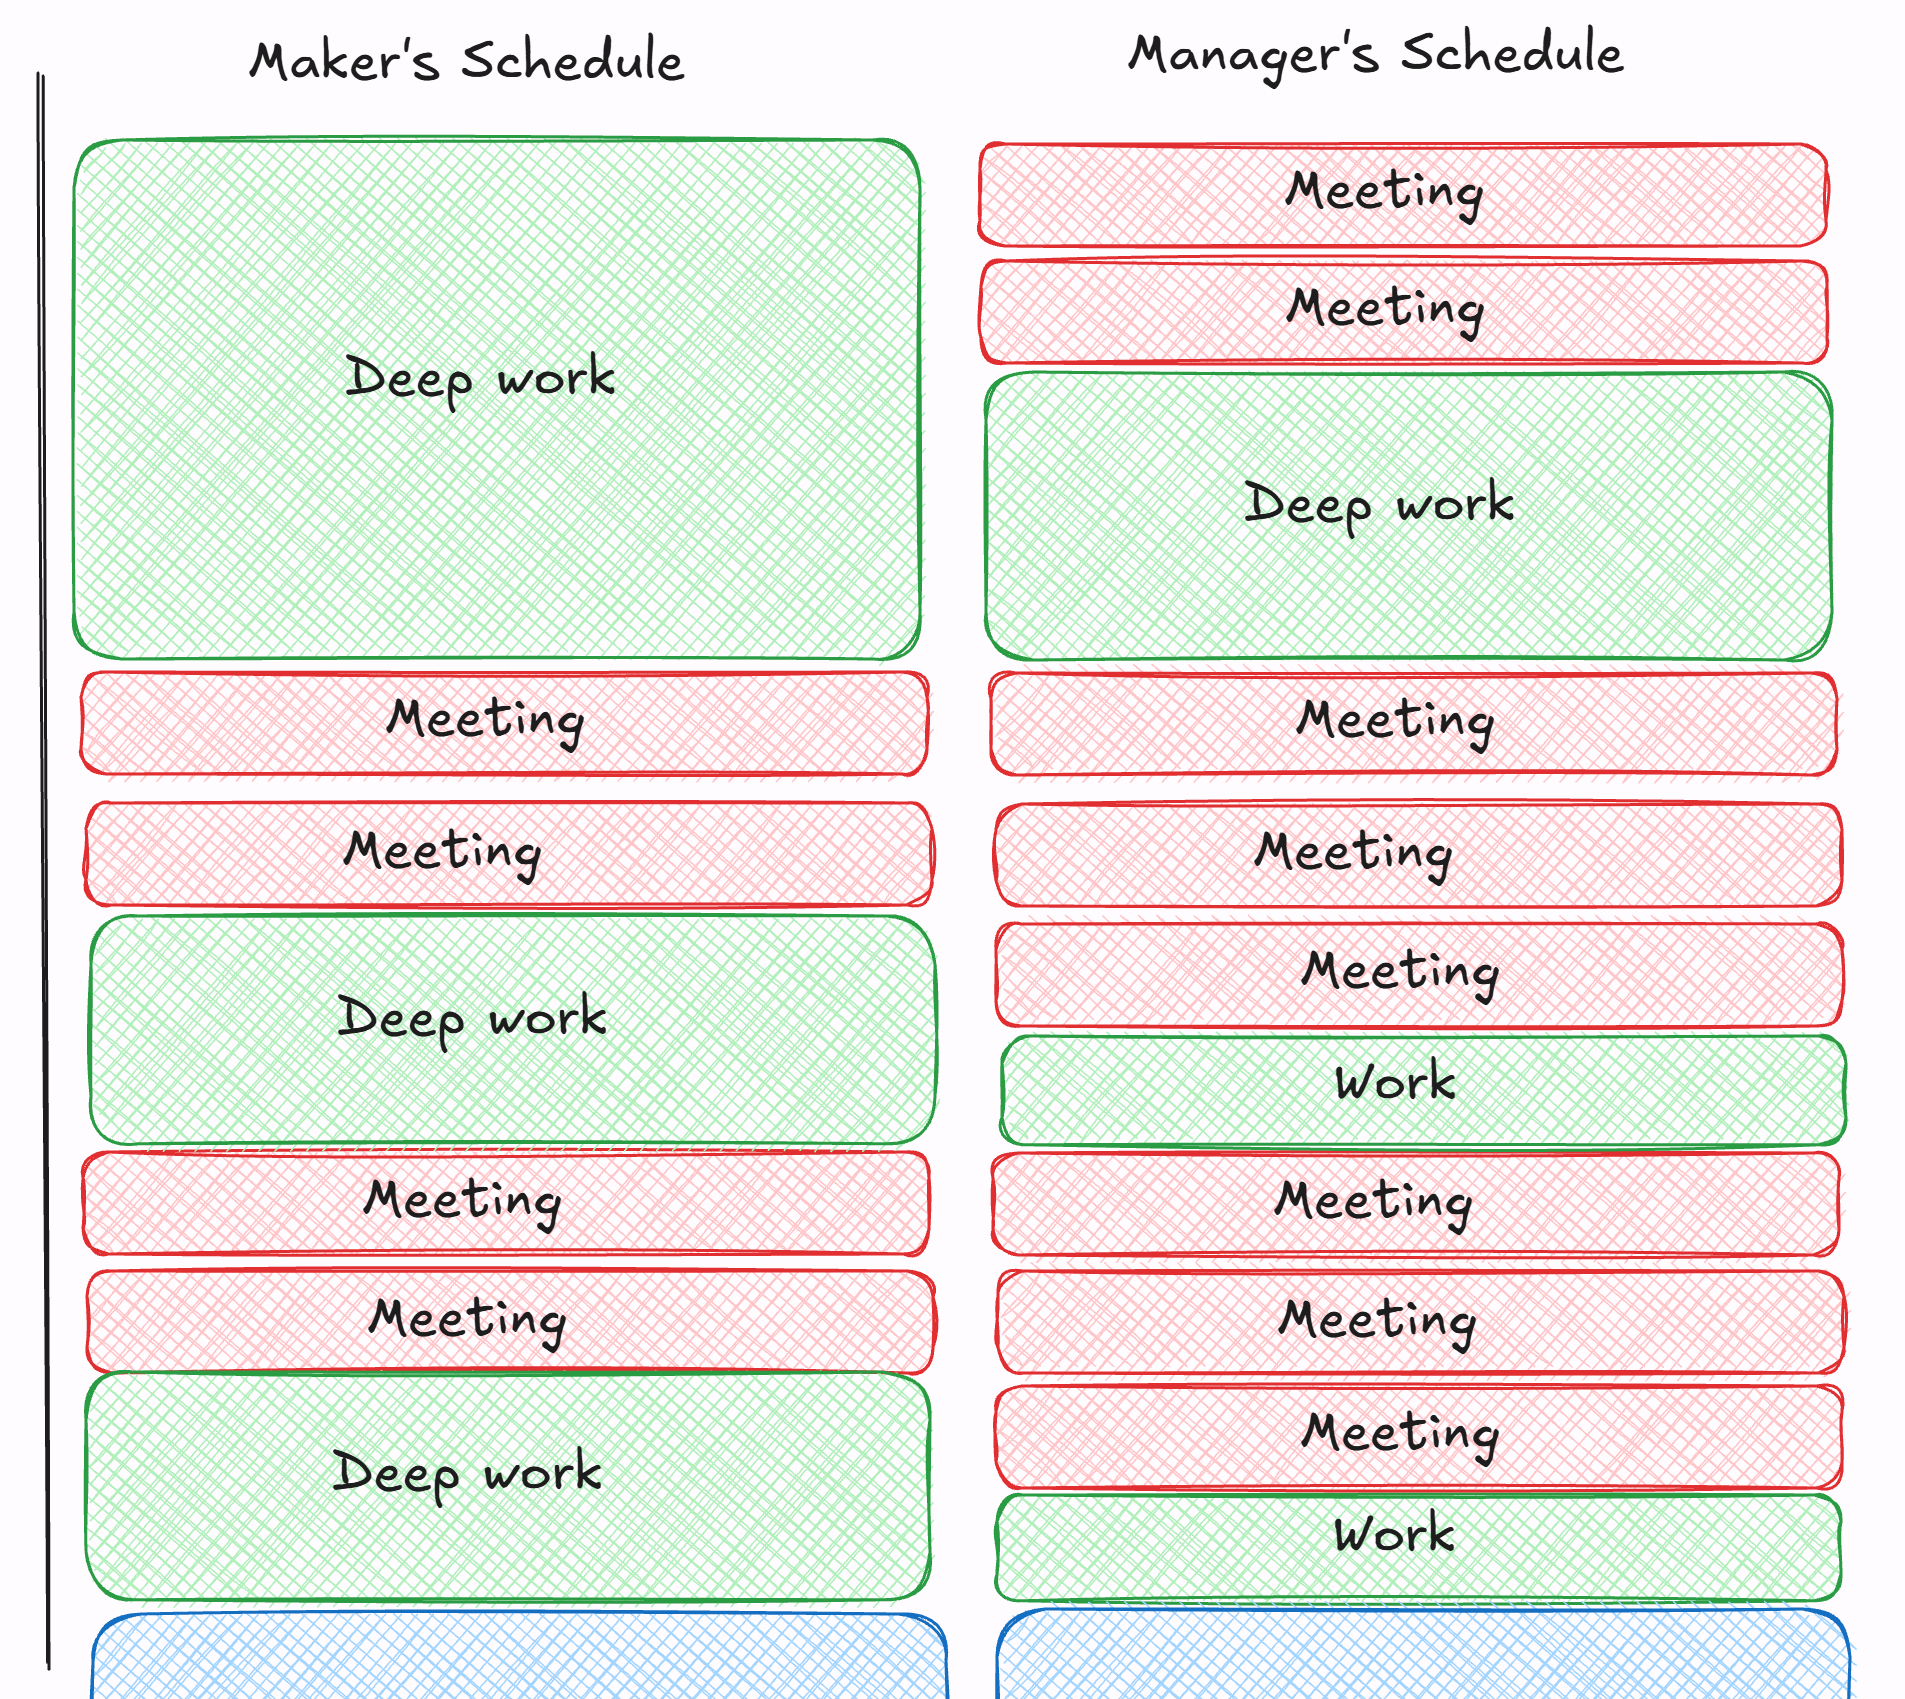
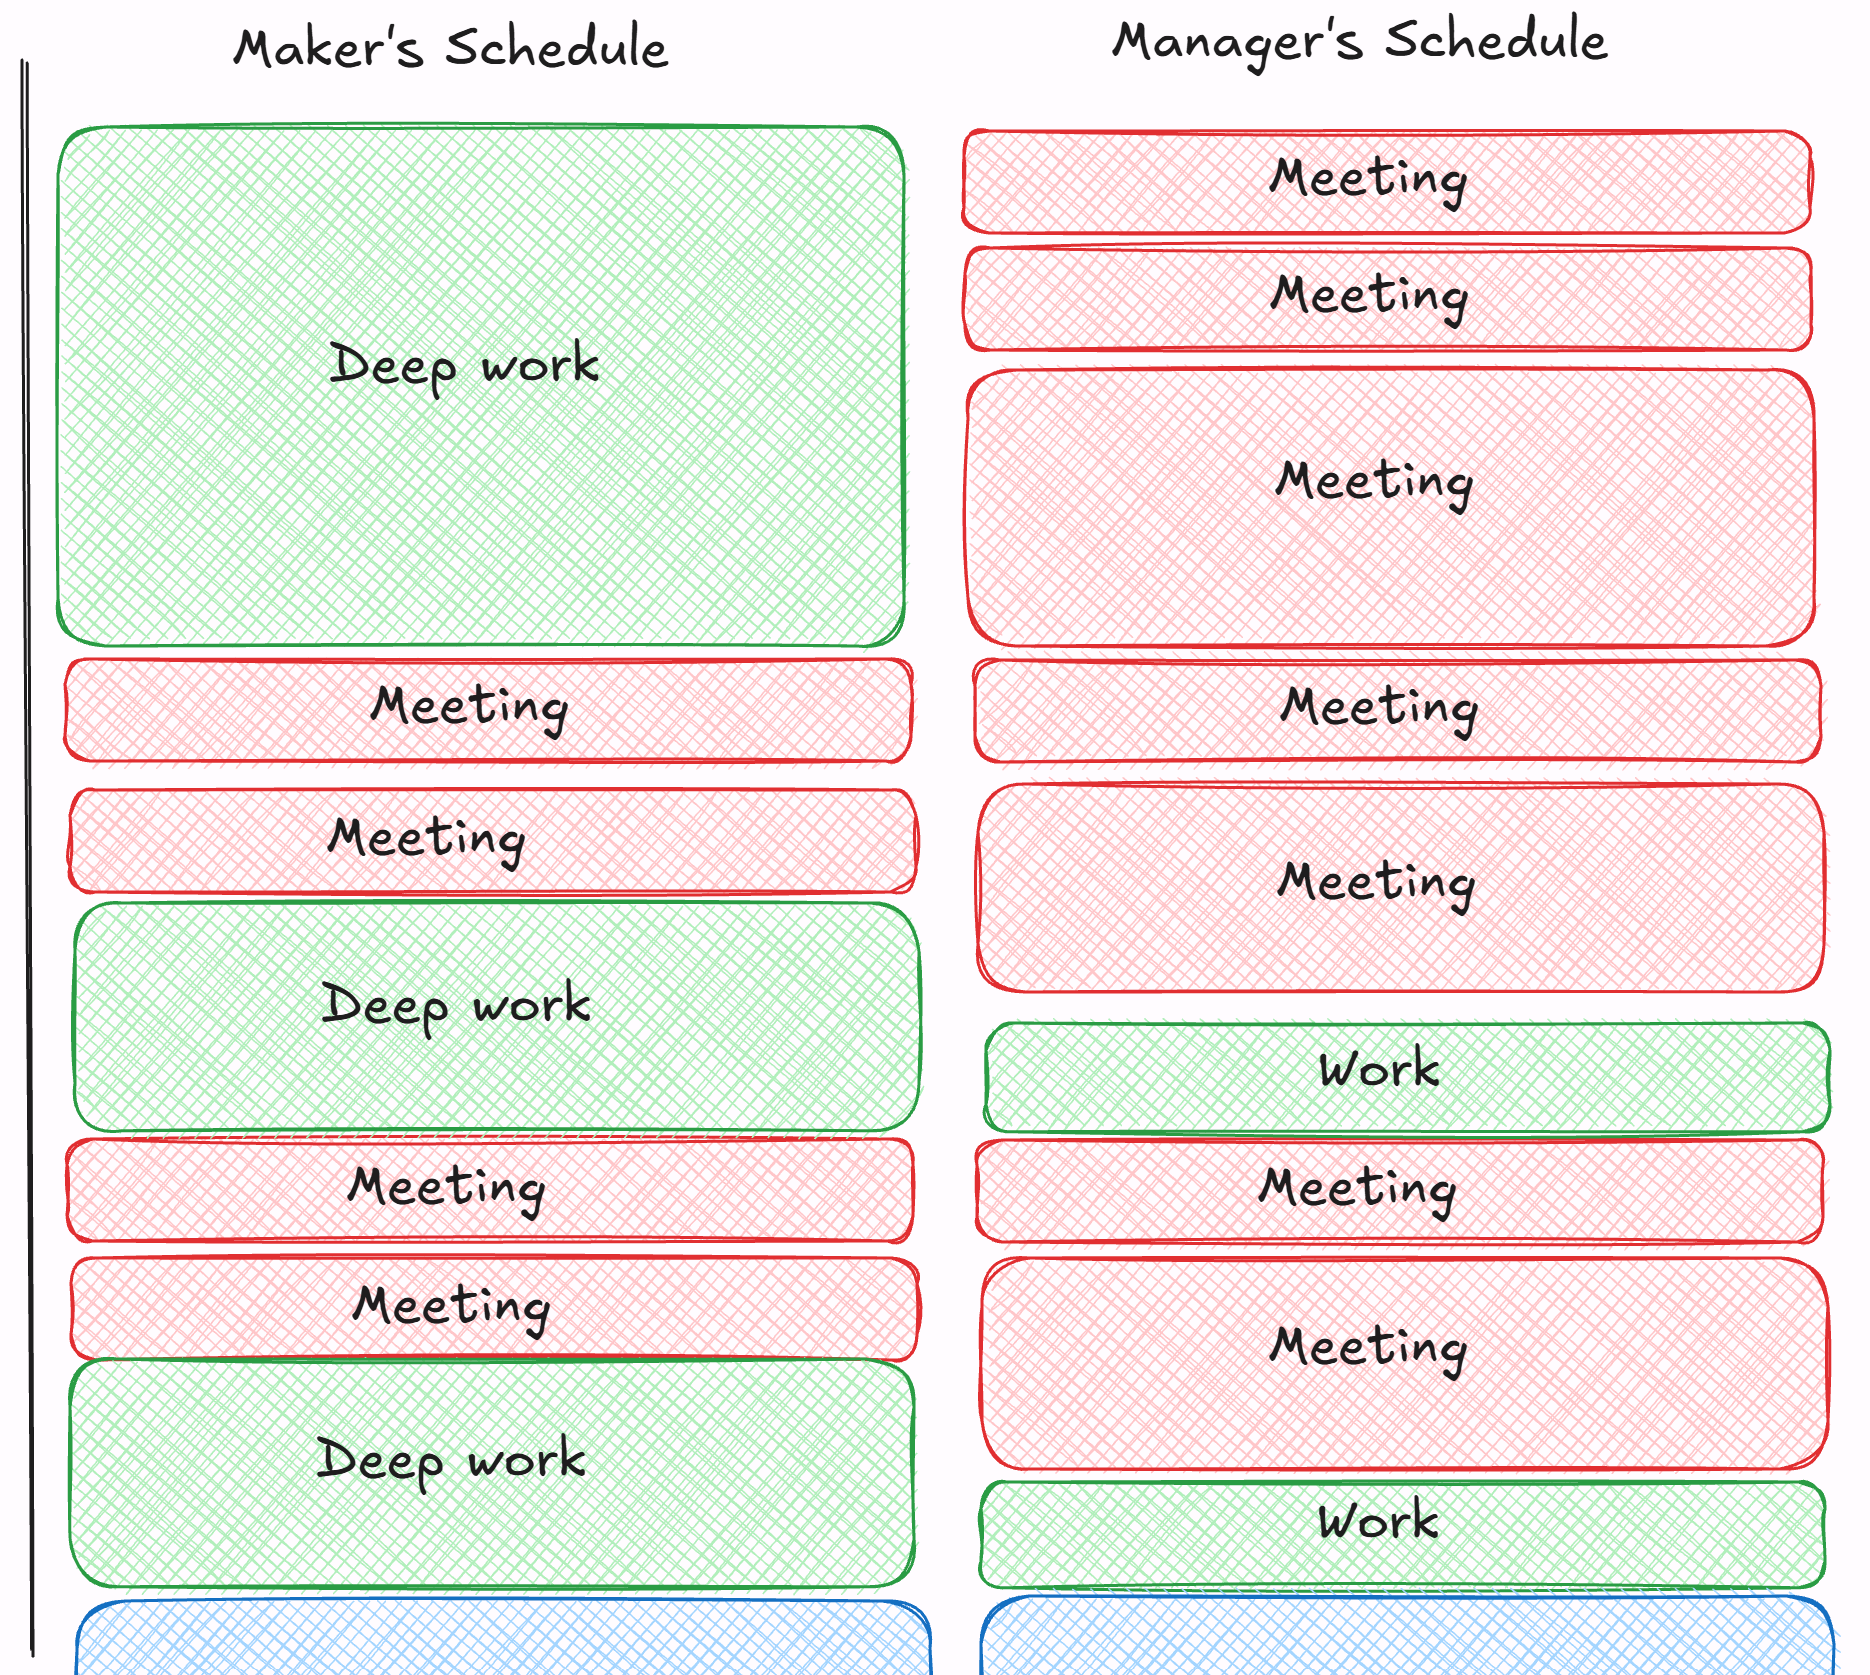
tweaks

diff --git a/_posts/2026-10-31-LLM-ENGINEER-SCHEDULE.md b/_posts/2026-10-31-LLM-ENGINEER-SCHEDULE.md
@@ -9,11 +9,13 @@ comments: true
 tags: []
 ---
 
-The [Maker's and Manager's Schedule](https://www.paulgraham.com/makersschedule.html) are famous idiom's for how individual contributors and managers contribute successfully to a business. The former need long uninterrupted timeblocks, to focus on an individual task. Whereas the later, managers, can quickly hop from task to task (meeting to meeting). These two schedules heavily conflicted with each other. Interrupting a maker in the middle of their timeblock costs more than just that interruption, it also costs the time to ramp down and ramp back up, a singular meeting [within a focus time block could easily nullify its productivity](https://imgur.com/A40L7v2). Not allowing Manager's to schedule meetings inhibits them from doing their job.
+The [Maker's and Manager's Schedule](https://www.paulgraham.com/makersschedule.html) are famous idiom's for how individual contributors and managers contribute successfully to a business. The former needs long uninterrupted timeblocks, to focus on an individual task. Whereas the later, managers, can quickly hop from task to task (meeting to meeting). 
+
+These two schedules heavily conflicted with each other. Interrupting a maker in the middle of their timeblock costs more than just that interruption, it also costs the time to ramp down and ramp back up, a singular meeting [within a focus time block could easily nullify its effectiveness](https://imgur.com/A40L7v2). Not allowing Manager's to schedule meetings inhibits them from doing their job.
 
 ![The LLM Engineer's Schedule](/img/posts/makers_vs_managers.png)
 
-LLM's have put a twist into this equation. They represent tireless, perpetually working machines enabling makers to combine the pros of the maker's and manager's schedule without the downsides of either approach.
+LLM's have put a twist into this equation. Makers now have tireless, perpetually working machines. Giving makers constant uninterrupted background timeblocks with the ability to engage in meetings.
 
 ![The LLM Engineer's Schedule](/img/posts/llm_engineers_schedule.png)
 
@@ -25,7 +27,7 @@ Agents however do not stop, they can work autonomously for [hours on end](https:
 
 The LLM engineer themselves will not always be working, but those that do not have agents running 24/7 will be left behind. Engineers will need to build the skills, processes and orchestration that enables them to kick off an agent and let it run autonomously for 12+ hours and come back to meaningful results the next day.
 
-Working on the right thing is certainly more important than [working on the wrong thing](https://x.com/b0rk/status/1367172498954059791), but so is working on the right thing fast or being able to [iterate quickly to figure out what the right thing is faster](https://danluu.com/productivity-velocity/#:~:text=A%20specific%20example%20of,problem%20is%20worth%20solving.). Both of these are facilitated by properly allocating your time.
+Working on the right thing is certainly more important than [working on the wrong thing](https://x.com/b0rk/status/1367172498954059791), but so is doing that faster and [iterating quickly to figure out what the right thing is](https://danluu.com/productivity-velocity/#:~:text=A%20specific%20example%20of,problem%20is%20worth%20solving.). Both of these are facilitated by properly allocating your time.
 
 ### Morning
 
@@ -33,7 +35,7 @@ The morning, similar to the past, is reserved for deep work. Kicking off new str
 
 New agent runs will require building context (for the engineer and the agent), understanding the problem space, available solutions, [trade-offs](https://kwojcicki.github.io/blog/TRADE-OFFS), testing, deploying and monitoring strategies. Once those have been established a well defined prompt, with clear outcomes and next steps, can be crafted and sent off on its way.
 
-It's imperative that the agent has a success criteria to iterate on themselves and for this to server as your basis for judging its work later. The agent will inevitably make some mistake, small ones can be absorbed or ignored, catastrophic mistakes that invalidate the agents work waste your time. These catastrophic mistakes occur for a variety of reasons: a lack of context, too much context, a hallucination, an incorrect instruction given in the prompt. Regardless of the reason, the desire is to minimize them by thinking about potential pitfalls the agent may run into and proactively guarding against them. LLM's don't remove the thinking, they remove the rote implementation and place a larger emphasis on thinking.
+It's imperative that the agent has a success criteria to iterate on themselves and for this to serve as your basis for judging its work later. The agent will inevitably make some mistake, small ones can be absorbed or ignored, catastrophic mistakes that invalidate the agents work waste your time. These catastrophic mistakes occur for a variety of reasons: a lack of context, too much context, a hallucination, an incorrect instruction given in the prompt. Regardless the reason, the desire is to minimize catastrophic mistakes by thinking about potential pitfalls the agent may run into and proactively guarding against them. LLM's don't remove the thinking, they remove the rote implementation and place a larger emphasis on thinking.
 
 A key note is that you need to focus this time on whats important to the business. As human's it is difficult for us to context switch and immediately go deep into that topic, while it's tempting to spin up 100 agents to refactor everything, fix those old bugs, add new features you're better off shipping an important project than losing focus on a shiny new thing. 
 
@@ -49,22 +51,22 @@ The last part of your early afternoon, while you still have the energy and menta
 
 ### Late afternoon
 
-By this point in the day individuals will not be in the best position to make decisions, this is a good time for low cognitive load tasks: jira cleanup, email cleanup, scheduling, validating that small tweaks to existing agent runs have been successful or kicking off more minor tweaks.
+By this point in the day individuals will not be in the best position to make decisions, this is a good time for low cognitive load tasks: jira cleanup, email cleanup, scheduling, validating small tweaks have been successful or kicking off more minor tweaks.
 
 ### Retrospectives
 
 Using [AI is a skill](https://www.seangoedecke.com/getting-good-at-ai-takes-time-and-practice/) that we are all learning, new models and new techniques come out monthly. Improving your processes and personal tooling is imperative. Look at the last week and identify what went well and what didn't.
 
-Why did one agent flounder aimlessly for 12 hours and produce nothing, but a rerun with a minor prompt tweak result in excellent results.
+Why did one agent flounder aimlessly for 12 hours and produce nothing, but a rerun with a minor prompt tweak resulted in excellent results.
 
-How could you have gained more confidence that an agents produced code was correct.
+How could you have gained more confidence that code agents produced was correct.
 
 ### Long running tasks and Weekends
 
 Weekends are an opportunity for you to give agent 48-72 hours of time and try something out. Place your [moonshot bets](https://danluu.com/ambitious/) and see if anything salvageable comes out of it. 
 
-Treat these as learning experiences as well. Try out various strategies and techniques and see what happens. Try recreating a feature you made that week using a different model, a different prompt a different set of MCP/tool access.
+Treat these as learning experiences as well. Try out various strategies and techniques and see what happens. Try recreating a feature you made that week using a different model, a different prompt or a different set of MCP/tool access.
 
 ### Budget
 
-This post has assumed you have infinite capital and ability to kick off agents that cost thousands of dollars. As AI companies IPO and are no longer sustained through VCs there will be increased scrutiny on AI spending. The budget friendly version of this is running open weight models locally on your work machine, this puts more emphasis on engineers to make the right bets on what the AI can accomplish unguided vs where more guidance (therefore more prework and AI skill) will be needed.
+This post has assumed you have infinite capital and ability to kick off agents that cost thousands of dollars. As AI companies IPO and are no longer sustained through VCs there will be increased prices and then scrutiny on AI spending. The budget friendly version of this is running open weight models locally on your work machine, this puts more emphasis on engineers to make the right bets on what the AI can accomplish unguided vs where more guidance (therefore more prework and AI skill) will be needed.
